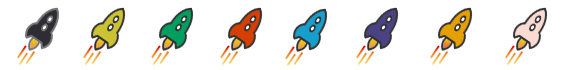
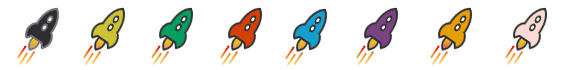
modified:   assets/board_icons.png 	modified:   assets/colony_ships.png 	modified:   src/styles/variables.less

Changed region(s): [[0.6241, 0.1429, 0.7133, 0.6571]]

diff --git a/src/styles/variables.less b/src/styles/variables.less
@@ -14,7 +14,7 @@
 @player_green: rgb(0, 158, 95);
 @player_black: rgb(47, 45, 95);
 @player_blue: rgb(22, 159, 204);
-@player_purple: rgb(75, 66, 131);
+@player_purple: rgb(124, 66, 131);
 @player_orange: rgb(230, 159, 0);
 @player_pink: rgb(251, 218, 212);
 //board
